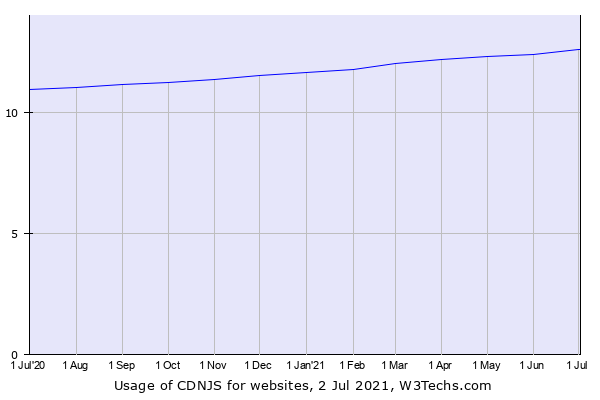
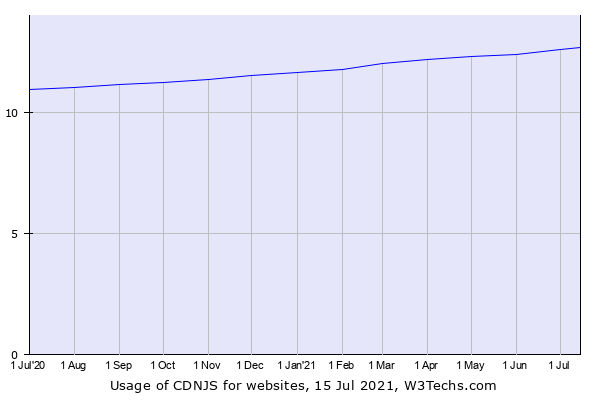
Publish the article

diff --git a/content/post/cdnjs-remote-code-execution-en.md b/content/post/cdnjs-remote-code-execution-en.md
@@ -1,6 +1,6 @@
 ---
 title: "Remote code execution in cdnjs of Cloudflare"
-date: 2021-07-01T12:53:03+09:00
+date: 2021-07-16T08:30:00+09:00
 draft: false
 tags: ["cdnjs", "Vulnerability", "Go", "Supply Chain", "RCE"]
 ---
@@ -16,21 +16,21 @@ If you found any vulnerabilities in Cloudflare's product, please report it to [C
 
 ## TL;DR
 There was a vulnerability in the cdnjs library update server that could execute arbitrary commands, and as a result, cdnjs could be completely compromised.  
-This allows an attacker to tamper 12.6%[^1] of all websites on the internet once caches are expired.  
+This allows an attacker to tamper 12.7%[^1] of all websites on the internet once caches are expired.  
 
-[^1]: Quoted from [W3Techs](https://w3techs.com/technologies/details/cd-cdnjs) as of 2 July 2021. Due to the presence of SRI / cache, fewer websites could tamper immediately.  
+[^1]: Quoted from [W3Techs](https://w3techs.com/technologies/details/cd-cdnjs) as of 15 July 2021. Due to the presence of SRI / cache, fewer websites could tamper immediately.  
 
 ## About cdnjs
 
-[cdnjs](https://cdnjs.com) is a JavaScript/CSS library CDN that is owned by Cloudflare, which is used by 12.6% of all websites on the internet as of 2 July 2021.  
+[cdnjs](https://cdnjs.com) is a JavaScript/CSS library CDN that is owned by Cloudflare, which is used by 12.7% of all websites on the internet as of 15 July 2021.  
 This is the second most widely used library CDN after 12.8%[^2] of [Google Hosted Libraries](https://developers.google.com/speed/libraries), and considering the current usage rate, it will be the most used JavaScript library CDN in the near future.  
 
 <div style="text-align: center;">
   <img src="/img/cdnjs-usage.png" alt="Usage rate of cdnjs on the internet">
-  <p>Usage graph of cdnjs from <a href="https://w3techs.com/technologies/details/cd-cdnjs" target="_blank">W3Techs</a>, as of 2 July 2021</p>
+  <p>Usage graph of cdnjs from <a href="https://w3techs.com/technologies/details/cd-cdnjs" target="_blank">W3Techs</a>, as of 15 July 2021</p>
 </div>
 
-[^2]: Quoted from [W3Techs](https://w3techs.com/technologies/details/cd-googlelibraries) as of 2 July 2021.
+[^2]: Quoted from [W3Techs](https://w3techs.com/technologies/details/cd-googlelibraries) as of 15 July 2021.
 
 ## Reason for investigation
 
@@ -64,7 +64,7 @@ After reading codes of these 2 repositories, it turned out [cdnjs/bot-ansible](h
 ## Investigation of automatic update
 
 The automatic update function updates the library by downloading the user-managed Git repository / npm package and copying the target file from them.  
-npm registry compress libraries into `.tgz` to make it downloadable.  
+And npm registry compress libraries into `.tgz` to make it downloadable.  
 Since the tool for this automatic update is written in Go, I guessed that it may use Go's `compress/gzip` and `archive/tar` to extract the archive file.  
 Go's `archive/tar` returns the filename contained in the archive without sanitizing[^3], so if the archive is extracted into the disk based on the filename returned from `archive/tar`, archives that contain filename like `../../../../../../../tmp/test` may overwrite arbitrary files on the system. [^4]  
 From the information in [cdnjs/bot-ansible](https://github.com/cdnjs/bot-ansible), I knew that some scripts were running regularly and the user that runs the `autoupdate` command had write permission for them, so I focused on overwriting files via path traversal.  
@@ -183,8 +183,33 @@ The attack procedure is as follows.
 2. Wait for the cdnjs library update server to process the crafted `.tgz` file.
 3. The contents of the file that is published in step 1 are written into a regularly executed script file and arbitrary command is executed.
 
-... and then, for some reason, I started wondering how automatic updates based on the Git repository works.  
+... and after writing the attack procedure into my notepad, for some reason, I started wondering how automatic updates based on the Git repository works.  
 So, I read codes a bit before demonstrating the vulnerability, and it seemed that the symlinks aren't considered when copying files from the Git repository.  
+```go
+func MoveFile(sourcePath, destPath string) error {
+	inputFile, err := os.Open(sourcePath)
+	if err != nil {
+		return fmt.Errorf("Couldn't open source file: %s", err)
+	}
+	outputFile, err := os.Create(destPath)
+	if err != nil {
+		inputFile.Close()
+		return fmt.Errorf("Couldn't open dest file: %s", err)
+	}
+	defer outputFile.Close()
+	_, err = io.Copy(outputFile, inputFile)
+	inputFile.Close()
+	if err != nil {
+		return fmt.Errorf("Writing to output file failed: %s", err)
+	}
+	// The copy was successful, so now delete the original file
+	err = os.Remove(sourcePath)
+	if err != nil {
+		return fmt.Errorf("Failed removing original file: %s", err)
+	}
+	return nil
+}
+```
 As Git supports symbolic links by default, it may be possible to read arbitrary files from the cdnjs library update server by adding symlink into the Git repository.  
 
 If the regularly executed script file is overwritten to execute arbitrary commands, the automatic update function may be broken, so I decided to check the arbitrary file reading first.    
@@ -194,7 +219,7 @@ Along with this, the attack procedure was changed as follows.
 2. Wait for the cdnjs library update server to process the crafted repository.
 4. The specified file is published on cdnjs.
 
-It was around 20:00 at this point, but what I have to do was creating a symlink, so I decided to eat dinner after making the symbolic link and publishing it.[^5]  
+It was around 20:00 at this point, but what I have to do was creating a symlink, so I decided to eat dinner after creating the symbolic link and publishing it.[^5]  
 ```bash
 ln -s /proc/self/maps test.js
 ```
@@ -203,6 +228,7 @@ ln -s /proc/self/maps test.js
 
 ## Incident
 Once I finished the dinner and returning to my PC desk, I was able to confirm that cdnjs has released a version containing symbolic links.    
+
 After checking the contents of the file to send the report, I was surprised.  
 Surprisingly, clearly sensitive information such as `GITHUB_REPO_API_KEY` and `WORKERS_KV_API_TOKEN` was displayed.  
 I couldn't understand what happened for a moment, and when I checked the command log, I found that I accidentally put a link to `/proc/self/environ` instead of `/proc/self/maps`.[^6]  
@@ -212,20 +238,21 @@ I needed to take immediate action, so I sent the report that only contains a lin
 [^6]: Because I was tired from work and I was hungry, I ran the command completed by shell without any confirmation.
 
 At this point, I was very confused and hadn't confirmed it, but in fact, these tokens were invalidated before I sent the report.  
-It seems that GitHub automatically notified immediately because `GITHUB_REPO_API_KEY` (API key of GitHub) was included in the repository, and Cloudflare started incident response immediately after the notification.  
+It seems that GitHub notified Cloudflare immediately because `GITHUB_REPO_API_KEY` (API key of GitHub) was included in the repository, and Cloudflare started incident response immediately after the notification.  
 I felt that they're a great security team because they invalidated all credentials within minutes after cdnjs processed the specially crafted repository.  
 
 ## Determinate impact
 After the incident, I investigated what could be impacted.  
 `GITHUB_REPO_API_KEY` was an API key for [robocdnjs](https://github.com/robocdnjs), which belongs to [cdnjs](https://github.com/cdnjs) organization, and had write permission against each repository.  
 This means it was possible to tamper arbitrary libraries on the cdnjs or tamper the cdnjs.com itself.  
+
 Also, `WORKERS_KV_API_TOKEN` had permission against KV of Cloudflare Workers that is used in the cdnjs, it could be used to tamper the libraries on KV cache.  
 By combining these permissions, the core part of cdnjs, such as the origin data of cdnjs, the KV cache, and even the cdnjs website, could be completely tampered.    
 
 ## Conclusion
 In this article, I described the vulnerability that was existed in cdnjs.  
 While this vulnerability could be exploited without any special skills, it could impact many websites.  
-Given that there are many vulnerabilities in the supply chain, which are easy to exploit but have a very large impact, I feel that it's very scary.  
+Given that there are many vulnerabilities in the supply chain, which are easy to exploit but have a large impact, I feel that it's very scary.  
 If you have any questions/comments about this article, please send a message to [@ryotkak](https://twitter.com/ryotkak) on Twitter.  
 ## Timeline
 |Date (JST)|Event|
@@ -240,4 +267,4 @@ If you have any questions/comments about this article, please send a message to 
 |April 6, 2021 21:00|I sent detailed report|
 |April 7, 2021-|Secondary fix has applied |
 |June 3, 2021|Complete fix has applied|
-|July XX, 2021|Published this article|
+|July 16, 2021|Published this article|
